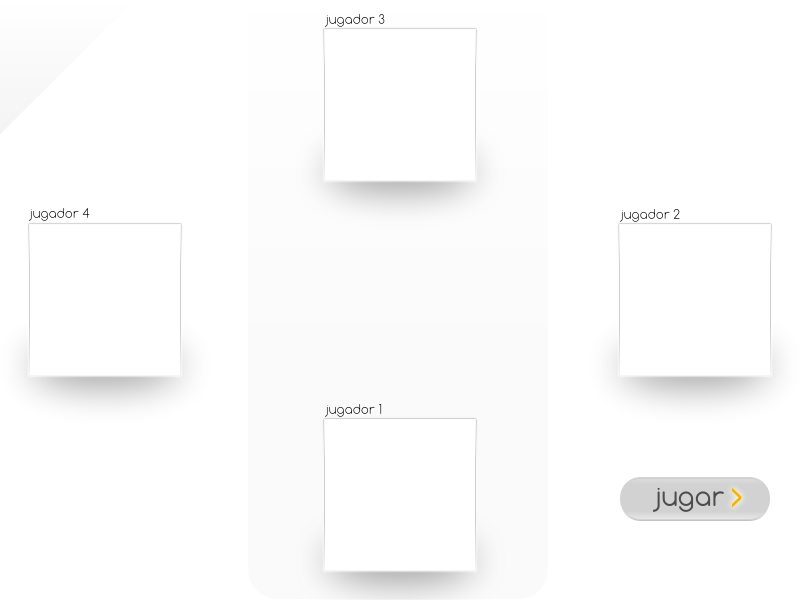
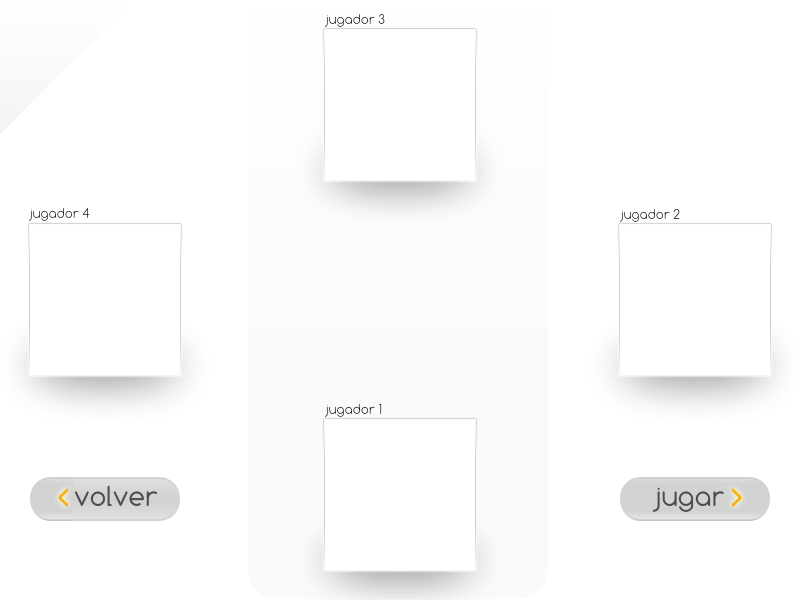
now you can go back in select player menu

Changed region(s): [[0.0312, 0.78, 0.25, 0.87]]

diff --git a/selectplayers.py b/selectplayers.py
@@ -154,3 +154,5 @@ class SelectPlayers():
                     self.game.goto_lab()
                 else:
                     self.game.goto_game()
+            elif event.pos[0] > 30 and event.pos[0] < 180 and event.pos[1] > 477 and event.pos[1] < 521 :
+                self.game.goto_menu()
